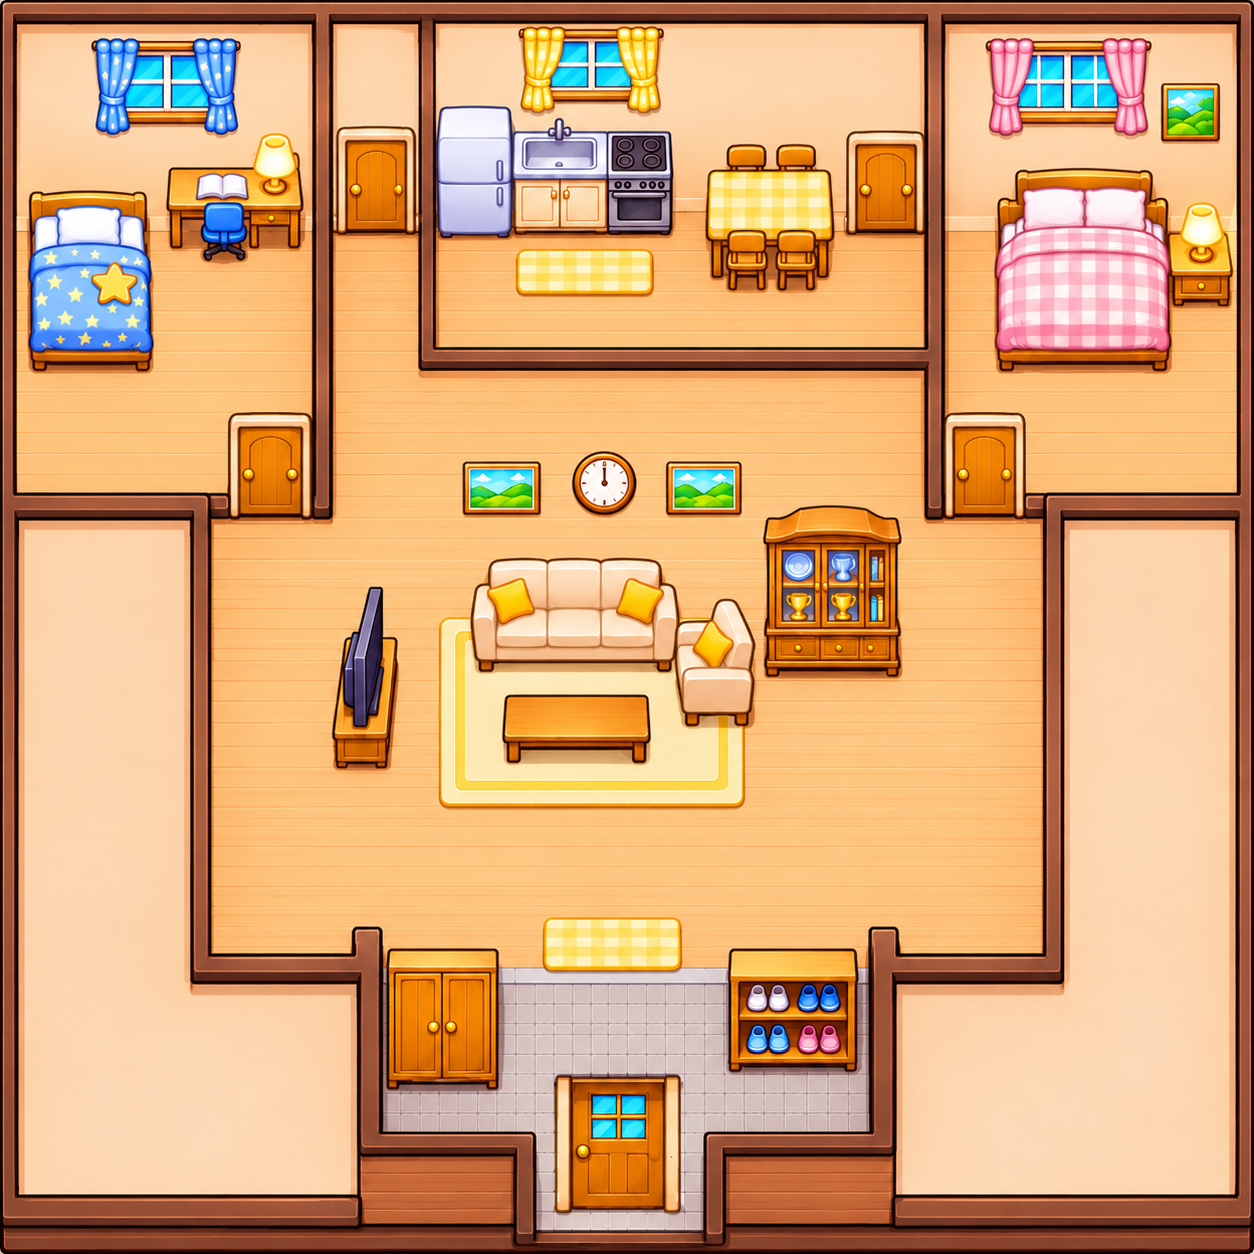
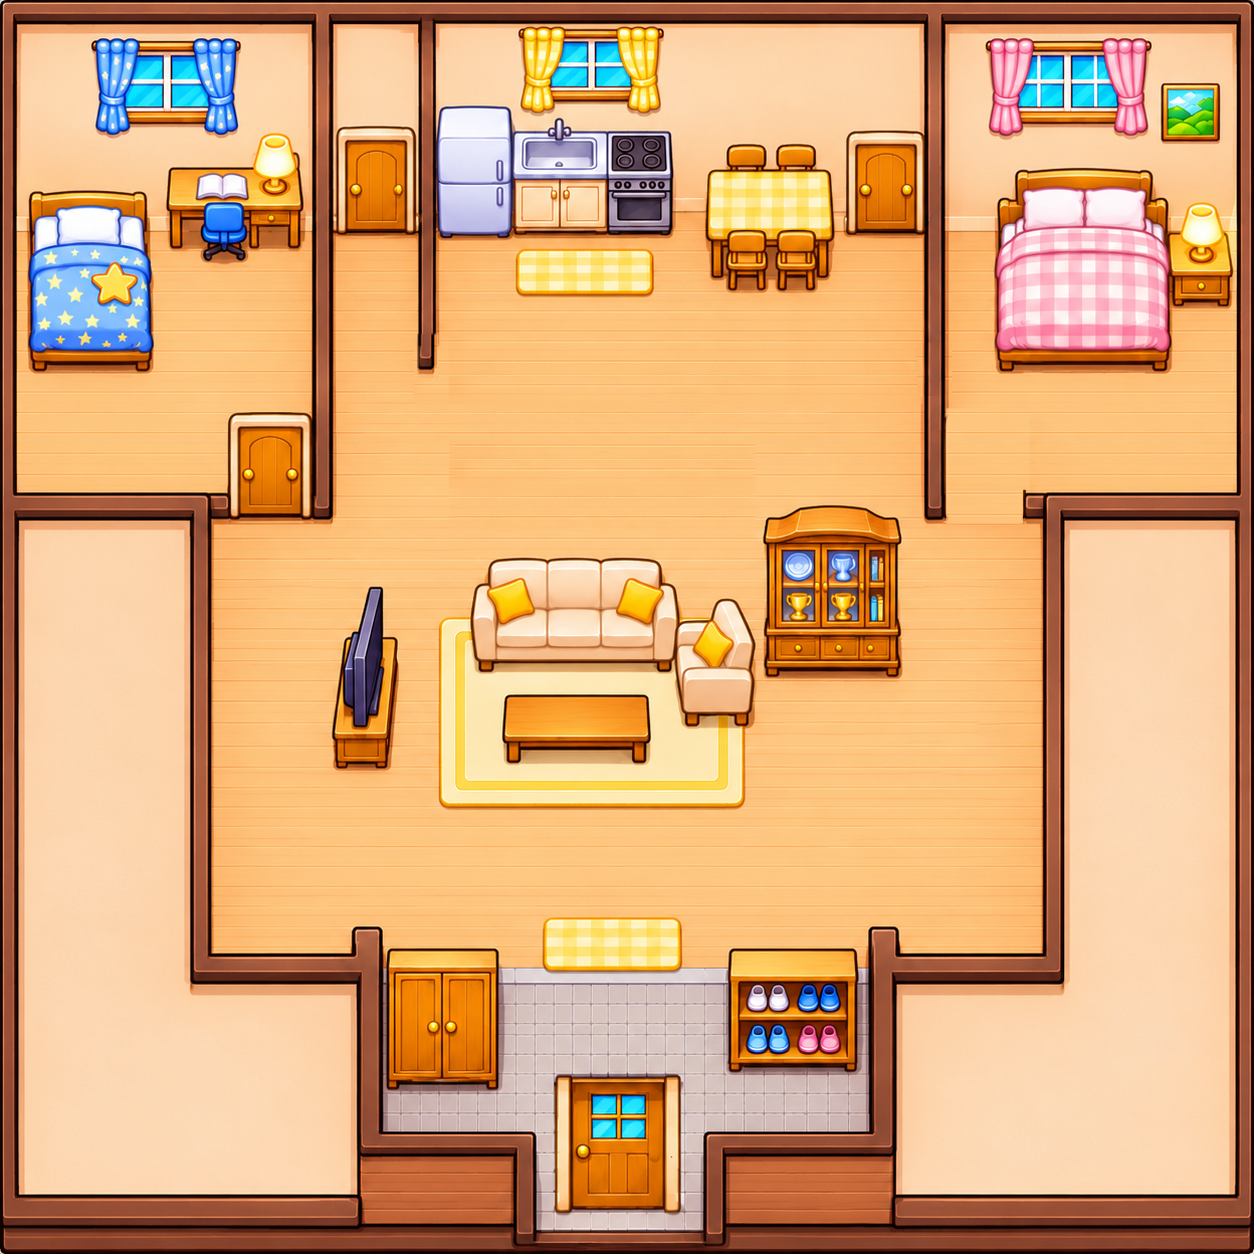
집 구조 다듬기

Changed region(s): [[0.311, 0.2488, 0.7464, 0.311], [0.3421, 0.3421, 0.5909, 0.4354], [0.7464, 0.311, 0.8397, 0.4354]]

diff --git a/house.js b/house.js
@@ -5,16 +5,67 @@ function houseDoor(room) {
   return room.door;
 }
 
+// 안방 문의 열림 상태. 집을 나가거나 새 게임을 시작하면 닫는다. 저장하지 않는다.
+const houseDoorUi = { bedroomOpen: false };
+
+function houseBedroomDoor() {
+  return HOUSE_DATA.rooms.find(room=>room.id==="bedroom").door;
+}
+
 // 벽과 가구는 집 그림 데이터(city-data.js)에서 막고, 여기서는 게임 상태에 따라 달라지는 것만 돌려준다.
 function houseObstacles() {
   const child=HOUSE_DATA.rooms.find(room=>room.id==="child");
-  return [HOUSE_DATA.cabinet,DIARY_DATA.bed,...HOUSE_DATA.dolls.filter(doll=>!gameState.acquiredItems[doll.itemId]),...(gameState.childRoomUnlocked?[]:[child.door])];
+  return [HOUSE_DATA.cabinet,DIARY_DATA.bed,...HOUSE_DATA.dolls.filter(doll=>!gameState.acquiredItems[doll.itemId]),...(gameState.childRoomUnlocked?[]:[child.door]),...(houseDoorUi.bedroomOpen?[]:[houseBedroomDoor()])];
+}
+
+// 플레이어 발밑에서 안방 문까지의 거리.
+function houseBedroomDoorDistance() {
+  const door=houseBedroomDoor(),footY=player.y+player.footOffset;
+  return Math.hypot(Math.max(0,Math.abs(player.x-door.x)-door.width/2),Math.max(0,Math.abs(footY-door.y)-door.height/2));
+}
+
+// 안방 문을 열거나 닫는다. 플레이어가 문 틈에 서 있으면 닫지 않는다.
+function toggleHouseBedroomDoor() {
+  if(houseDoorUi.bedroomOpen&&circleHitsRectangle(player.x,player.y+player.footOffset,player.collisionRadius,houseBedroomDoor())) {
+    showDoorMessage(HOUSE_DATA.text.doorBlocked);
+    return false;
+  }
+  houseDoorUi.bedroomOpen=!houseDoorUi.bedroomOpen;
+  return true;
+}
+
+function nearHouseBedroomDoor() {
+  return scene.interiorId===HOUSE_DATA.placeId&&houseBedroomDoorDistance()<=HOUSE_DATA.interactDistance;
+}
+
+// 상호작용 키: 가까운 안방 문을 열고 닫는다. 문이 가까우면 true를 돌려준다.
+function interactNearbyHouseDoor() {
+  if(!nearHouseBedroomDoor())return false;
+  toggleHouseBedroomDoor();
+  return true;
+}
+
+// 안방 문 안내 문구. 키가 지정되지 않았으면 클릭 안내만 보여 준다.
+function houseBedroomDoorHint() {
+  const text=HOUSE_DATA.text,key=interactKeyLabel(),open=houseDoorUi.bedroomOpen;
+  if(!key)return open?text.doorCloseClickHint:text.doorOpenClickHint;
+  return (open?text.doorCloseHint:text.doorOpenHint).replace("{key}",key);
+}
+
+// 저장에서 이어 할 때 문 틈에 서 있었다면 문을 열어 둔다.
+function openHouseDoorAtPlayer() {
+  if(circleHitsRectangle(player.x,player.y+player.footOffset,player.collisionRadius,houseBedroomDoor()))houseDoorUi.bedroomOpen=true;
 }
 
 function handleHouseClick(x,y) {
   const hit=rect=>Math.abs(x-rect.x)<=rect.width/2+8&&Math.abs(y-rect.y)<=rect.height/2+8;
   const child=HOUSE_DATA.rooms.find(room=>room.id==="child"),door=houseDoor(child);
   const book=DIARY_DATA.book;
+  if(hit(houseBedroomDoor().picture)) {
+    if(nearHouseBedroomDoor())toggleHouseBedroomDoor();
+    else showDoorMessage(HOUSE_DATA.text.doorNear);
+    return true;
+  }
   if(Math.abs(x-book.x)<=book.width/2+DIARY_DATA.clickPadding&&Math.abs(y-book.y)<=book.height/2+DIARY_DATA.clickPadding) {
     const footY=player.y+player.footOffset;
     const inside=player.x>child.x+HOUSE_DATA.wallThickness&&player.x<child.x+child.width-HOUSE_DATA.wallThickness&&footY>child.y+HOUSE_DATA.wallThickness&&footY<child.y+child.height-HOUSE_DATA.wallThickness;
@@ -70,20 +121,18 @@ function drawHouseDoll(doll) {
   ctx.restore();
 }
 
-// 문이 열려 있으면 문 그림 위에 근처 바닥 그림을 덮어 지나갈 수 있게 보여 준다.
-function drawOpenHouseDoor(image,door) {
-  const rect=door.picture;
-  ctx.drawImage(image,door.floor.x,door.floor.y,rect.width,rect.height,rect.x-rect.width/2,rect.y-rect.height/2,rect.width,rect.height);
-}
-
 function drawHouse() {
   const interior=city.interiors.find(room=>room.placeId===HOUSE_DATA.placeId);
   const image=objectSpriteImage(interior.picture.src);
-  const child=HOUSE_DATA.rooms.find(room=>room.id==="child"),bedroom=HOUSE_DATA.rooms.find(room=>room.id==="bedroom");
+  const child=HOUSE_DATA.rooms.find(room=>room.id==="child");
   ctx.save();ctx.textAlign="center";ctx.textBaseline="middle";ctx.font="18px 'Malgun Gothic', sans-serif";
   if(image) {
-    drawOpenHouseDoor(image,bedroom.door);
-    if(gameState.childRoomUnlocked)drawOpenHouseDoor(image,child.door);
+    // 안방 문이 닫혀 있으면 통로 자리에 문 그림을 덮는다.
+    const closed=HOUSE_DATA.bedroomDoorClosed,closedImage=houseDoorUi.bedroomOpen?null:objectSpriteImage(closed.src);
+    if(closedImage)ctx.drawImage(closedImage,closed.x,closed.y,closed.width,closed.height);
+    // 아이 방 문을 열었으면 문 자리에 통로 그림을 덮는다.
+    const open=HOUSE_DATA.childDoorOpen,openImage=gameState.childRoomUnlocked?objectSpriteImage(open.src):null;
+    if(openImage)ctx.drawImage(openImage,open.x,open.y,open.width,open.height);
     drawObjectSprite(HOUSE_DATA.cabinet);
   } else {
     // 그림을 불러오지 못했을 때의 임시 표시.
@@ -94,6 +143,7 @@ function drawHouse() {
     ctx.fillStyle="#a98664";ctx.fillRect(cabinet.x-cabinet.width/2,cabinet.y-cabinet.height/2,cabinet.width,cabinet.height);
     ctx.fillStyle="#5b4b3b";ctx.fillText(HOUSE_DATA.text.cabinet,cabinet.x,cabinet.y+cabinet.height/2+20);
     if(!gameState.childRoomUnlocked){const door=child.door;ctx.fillStyle="#705346";ctx.fillRect(door.x-door.width/2,door.y-door.height/2,door.width,door.height);}
+    if(!houseDoorUi.bedroomOpen){const door=houseBedroomDoor();ctx.fillStyle="#9a6a42";ctx.fillRect(door.x-door.width/2,door.y-door.height/2,door.width,door.height);}
   }
   drawChildRoomFurniture(!!image);
   for(const doll of HOUSE_DATA.dolls)if(!gameState.acquiredItems[doll.itemId]) {

diff --git a/data/house.js b/data/house.js
@@ -2,19 +2,25 @@
 
 const HOUSE_DATA = {
   placeId: "C05", keyId: "ITM-09", wallThickness: 0, interactDistance: 120,
-  // 집 그림(픽셀 = 게임 좌표) 기준 위치다. door는 걸어서 지나는 틈, picture는 문 그림(클릭 범위), floor는 문이 열렸을 때 덮을 바닥 그림의 왼쪽 위다.
-  // 부엌에는 문이 이어져 있지 않아 들어가지 못한다.
+  // 집 그림(픽셀 = 게임 좌표) 기준 위치다. door는 걸어서 지나는 틈, picture는 문 그림(클릭 범위)이다.
+  // 집 그림의 안방 문 자리는 통로로 합성되어 있고, 문이 닫혀 있으면 bedroomDoorClosed 그림을 덮는다. 잠기지 않아 언제든 여닫을 수 있다.
+  // 아이 방 문은 열쇠로 열면 childDoorOpen 그림을 덮는다.
+  // 부엌은 마루와 벽 없이 이어져 있다.
   // TODO: 방·문·인형 위치와 크기는 임시 설정이다.
   rooms: [
     { id: "bedroom", name: "안방", x: 945, y: 232, width: 293, height: 265,
-      door: { x: 985, y: 509, width: 66, height: 24, picture: { x: 985, y: 465, width: 80, height: 100 }, floor: { x: 1045, y: 380 } } },
+      door: { x: 985, y: 509, width: 76, height: 24, picture: { x: 985, y: 465, width: 80, height: 100 } } },
     { id: "kitchen", name: "부엌", x: 435, y: 225, width: 490, height: 125 },
     { id: "child", name: "아이 방", x: 18, y: 232, width: 294, height: 265,
-      door: { x: 270, y: 509, width: 64, height: 24, picture: { x: 270, y: 465, width: 80, height: 100 }, floor: { x: 120, y: 380 } } },
+      door: { x: 271.5, y: 509, width: 81, height: 24, picture: { x: 270, y: 465, width: 80, height: 100 } } },
   ],
   // 집 그림의 진열장 자리에 닫힌 진열장 그림을 덮어 그린다. 위쪽은 부딪히는 범위보다 조금 튀어나온다.
+  bedroomDoorClosed: { src: "assets/house-bedroom-door.png", x: 940, y: 402, width: 96, height: 128 },
+  childDoorOpen: { src: "assets/house-child-door-open.png", x: 216, y: 402, width: 102, height: 128 },
   cabinet: { x: 832, y: 590, width: 135, height: 170, sprite: { src: "assets/cabinet-closed.png", width: 142, height: 190 } },
-  text: { hall: "마루", cabinet: "장식장", locked: "아이 방 문이 잠겨 있습니다.", unlocked: "열쇠로 아이 방 문을 열었습니다.", near: "가까이에서 클릭해 주세요.", acquired: "획득했습니다.", already: "이미 가져간 인형입니다." },
+  text: { doorOpenHint: "{key} 키를 누르거나 문을 클릭해 열기", doorCloseHint: "{key} 키를 누르거나 문을 클릭해 닫기",
+    doorOpenClickHint: "문을 클릭해 열기", doorCloseClickHint: "문을 클릭해 닫기", doorNear: "문 가까이에서 클릭해 주세요.", doorBlocked: "문 앞에서 비켜 주세요.",
+    hall: "마루", cabinet: "장식장", locked: "아이 방 문이 잠겨 있습니다.", unlocked: "열쇠로 아이 방 문을 열었습니다.", near: "가까이에서 클릭해 주세요.", acquired: "획득했습니다.", already: "이미 가져간 인형입니다." },
   // 인형은 안방 침대 위에 놓는다. 사용자 결정(2026-11-08): 고양이 인형 그림이 없어 돼지 인형으로 바꿨다(기획서와 다름).
   dolls: [
     { id: "DOLL-01", itemId: "ITM-08", kind: "bear", name: "곰 인형", x: 1030, y: 270, width: 46, height: 46, sprite: { src: "assets/item-bear.png" } },

diff --git a/city-data.js b/city-data.js
@@ -129,17 +129,18 @@ const CITY_DATA = {
       floorColor: "#e6dfc6", wallColor: "#a59c7d", tileSize: 64,
       exit: { x: 800, y: 984, width: 96, height: 32, side: "south" },
       spawn: { x: 800, footY: 888, facing: "up" } },
-    // 집은 그림(1254×1254) 픽셀이 곧 게임 좌표다. 사용자 결정(2026-11-08): 부엌은 그림에서 벽으로 막혀 있어 들어가지 못한다.
+    // 집은 그림(1254×1254) 픽셀이 곧 게임 좌표다. 그림은 원본에서 안방 문을 열린 통로로 합성한 사본이다. 사용자 결정(2026-11-08): 부엌과 마루 사이 벽, 마루의 시계·액자를 그림에서 지웠다. 부엌은 마루에서 걸어 들어간다.
     // TODO: 걷는 범위는 임시 값이다. 플레이 테스트에서 조정한다.
     { placeId: "C05", name: "집", wall: 0, floorColor: "#d7c5ac", wallColor: "#998674", tileSize: 64,
       picture: { src: "assets/house-interior.png", imageWidth: 1254, imageHeight: 1254, scale: 1,
         walkable: [
           { left: 18, top: 232, right: 312, bottom: 497 }, // 아이 방
-          { left: 238, top: 497, right: 302, bottom: 521 }, // 아이 방 문 틈
+          { left: 231, top: 497, right: 312, bottom: 521 }, // 아이 방 문 틈
           { left: 945, top: 232, right: 1238, bottom: 497 }, // 안방
-          { left: 952, top: 497, right: 1018, bottom: 521 }, // 안방 문 틈
+          { left: 947, top: 497, right: 1023, bottom: 521 }, // 안방 문 틈
           { left: 332, top: 232, right: 418, bottom: 372 }, // 부엌 왼쪽 복도
           { left: 332, top: 372, right: 925, bottom: 521 }, // 마루 위쪽
+          { left: 437, top: 238, right: 925, bottom: 372 }, // 부엌(마루와 벽 없이 이어진다)
           { left: 212, top: 520, right: 1042, bottom: 932 }, // 마루
           { left: 212, top: 930, right: 353, bottom: 952 }, // 마루 왼쪽 아래
           { left: 897, top: 930, right: 1042, bottom: 952 }, // 마루 오른쪽 아래
@@ -150,7 +151,7 @@ const CITY_DATA = {
           { left: 168, top: 165, right: 302, bottom: 262 }, // 아이 방 책상과 의자
           { left: 995, top: 170, right: 1172, bottom: 372 }, // 안방 침대(인형이 놓여 있다)
           { left: 1170, top: 205, right: 1232, bottom: 305 }, // 안방 협탁
-          { left: 463, top: 455, right: 742, bottom: 521 }, // 벽 그림과 시계
+          { left: 705, top: 165, right: 838, bottom: 292 }, // 부엌 식탁과 의자
           { left: 333, top: 585, right: 398, bottom: 768 }, // TV
           { left: 472, top: 558, right: 678, bottom: 672 }, // 소파
           { left: 675, top: 600, right: 755, bottom: 725 }, // 1인 소파
@@ -158,8 +159,9 @@ const CITY_DATA = {
           { left: 387, top: 950, right: 498, bottom: 1088 }, // 옷장
           { left: 730, top: 950, right: 858, bottom: 1070 }, // 신발장
         ] },
-      exit: { x: 620, y: 1180, width: 96, height: 32, side: "south" },
-      spawn: { x: 620, footY: 1110, facing: "up" } },
+      // 사용자 결정: 쪽문으로 들어오면 아이 방과 부엌 사이 복도 끝 문 앞에 서고, 나갈 때도 이 문으로 나간다. 아래쪽 현관문은 잠긴 정문이다.
+      exit: { x: 376, y: 180, width: 80, height: 105, side: "north" },
+      spawn: { x: 376, footY: 262, facing: "down" } },
   ],
 };
 

diff --git a/hints.js b/hints.js
@@ -80,8 +80,14 @@ function hintCandidates() {
   if (!gameState.endingReached && homeNeeded) {
     if (scene.interiorId !== HOUSE_DATA.placeId) {
       add("HNT-07");
+      // 사용자 결정: 집 힌트(HNT-07) 다음에 침대 위 인형을 찾는 힌트(HNT-19)를 준다.
+      if (!has("bear")) add("HNT-19", HOUSE_DATA.dolls.find(doll => doll.itemId === HINT_DATA.items.bear));
       add("HNT-13");
-    } else if (!has("bear")) add("HNT-15", HOUSE_DATA.dolls.find(doll => doll.itemId === HINT_DATA.items.bear));
+    } else if (!has("bear")) {
+      const bear = HOUSE_DATA.dolls.find(doll => doll.itemId === HINT_DATA.items.bear);
+      add("HNT-19", bear);
+      add("HNT-15", bear);
+    }
     else if (!gameState.cabinetSolved && CABINET_DATA.answer.every(id => gameState.acquiredItems[id])) add("HNT-08", HOUSE_DATA.cabinet);
     else if (gameState.cabinetSolved && !gameState.childRoomUnlocked) add("HNT-16", houseDoor(HOUSE_DATA.rooms.find(room => room.id === "child")));
     else if (gameState.childRoomUnlocked) add("HNT-17", DIARY_DATA.book);

diff --git a/save.js b/save.js
@@ -133,6 +133,7 @@ function resetSession() {
   Object.assign(playgroundAnimation, { swingUntil: 0, seesawUntil: 0, slideUntil: 0 });
   resetRegistryProgress();
   schoolDoorUi.open.clear();
+  houseDoorUi.bedroomOpen = false;
   clearBubbleEffects();
   pressedKeys.clear();
   previousTime = null;
@@ -151,6 +152,7 @@ function restoreProgress() {
       Object.assign(player, { x: position.x, y: position.y, facing: position.facing });
       // 학교 문은 저장하지 않는다. 문 틈에 서 있던 저장이면 그 문만 열어 둔 채로 이어 한다.
       if (scene.interiorId === SCHOOL_DATA.placeId) openSchoolDoorsAtPlayer();
+      if (scene.interiorId === HOUSE_DATA.placeId) openHouseDoorAtPlayer();
       if (!canStand(player.x, player.y) || (scene.returnPoint && !canStandCity(scene.returnPoint.x, scene.returnPoint.y))) throw new Error("Invalid position");
       initializeHintSession();
       updateAchievementConditions();

diff --git a/game.js b/game.js
@@ -166,6 +166,8 @@ function finishMapTransition() {
   else restoreUnsolvedCabinet();
   // 학교를 나가면 열어 둔 문을 모두 닫는다(층 이동은 유지).
   if (scene.interiorId !== SCHOOL_DATA.placeId) schoolDoorUi.open.clear();
+  // 집을 나가면 안방 문을 닫는다.
+  if (scene.interiorId !== HOUSE_DATA.placeId) houseDoorUi.bedroomOpen = false;
   clearBubbleEffects();
   // 누르고 있던 방향키와 이전 화면의 시간 차가 새 맵에 남지 않게 한다.
   pressedKeys.clear();
@@ -812,6 +814,10 @@ function currentKeyHint() {
   if (target) {
     const rect = target.pictureRect;
     return { text: schoolDoorHint(), x: rect.x, y: rect.y, center: true };
+  }
+  if (nearHouseBedroomDoor()) {
+    const rect = houseBedroomDoor().picture;
+    return { text: houseBedroomDoorHint(), x: rect.x, y: rect.y, center: true };
   }
   const object = nearbyKeyObject();
   if (object) {

diff --git a/input.js b/input.js
@@ -38,7 +38,7 @@ window.addEventListener("keydown", event => {
     if (event.repeat) return;
     // 상호작용 키로 연 창(대화·게시판·명부)이 열려 있으면 닫고, 아니면 가까운 대상과 상호작용한다.
     if (inspectionUiState.object?.messages?.keyHint) closeInspection();
-    else if (!isGameInputBlocked()) interactNearbySchool() || interactNearbyObject() || interactNearbyEntrance();
+    else if (!isGameInputBlocked()) interactNearbySchool() || interactNearbyHouseDoor() || interactNearbyObject() || interactNearbyEntrance();
     return;
   }
   const actions = { inventory: toggleInventory, achievements: toggleAchievements, map: toggleMap };

diff --git a/data/hints.js b/data/hints.js
@@ -31,6 +31,8 @@ const HINT_DATA = {
     { id: "HNT-17", placeId: "C05", text: "아이 방 침대 위에 남겨진 일기를 끝까지 읽어 보세요." },
     // 알림장·크레파스를 아직 못 얻었을 때, 게시판(HNT-02) 또는 자리 배치도(HNT-03) 힌트 다음에 준다.
     { id: "HNT-18", placeId: "C02", text: "크레파스는 학생의 자리에 있겠죠? 돌잔치 사진과 연결해보세요." },
+    // 곰 인형을 아직 얻지 못했을 때, 집 힌트(HNT-07) 다음에 준다.
+    { id: "HNT-19", placeId: "C05", text: "집 안을 잘 살펴보세요. 침대 위에 놓인 것이 있을지도 몰라요." },
   ],
 };
 

diff --git a/README.md b/README.md
@@ -76,7 +76,7 @@
 
 별도의 힌트 기록 버튼은 없습니다. 힌트를 한 번이라도 받으면 🎁는 계속 남아 있습니다. 누르면 새 힌트가 있을 때는 위에 새 힌트를, 아래에 **이전에 본 힌트**를 모두 보여주고, 새 힌트가 없을 때는 이전에 본 힌트만 보여줍니다. 같은 힌트는 기록에 중복 추가하지 않습니다. 패널이 열려 있는 동안 이동과 배경 클릭은 차단하며 닫기 버튼으로 닫습니다. 다른 조사·인벤토리·업적 창을 닫은 뒤 사용할 수 있습니다.
 
-집에 들어가기 전에는 집 힌트를 HNT-07 → HNT-13(집 외곽) 순서로 주고, 그다음 미끄럼틀 힌트(HNT-14)를 줍니다. HNT-14는 놀이터 힌트지만 이 경우만 장소 순서의 예외입니다.
+집에 들어가기 전에는 집 힌트를 HNT-07 → HNT-19(침대 위 인형, 곰 인형이 없을 때만) → HNT-13(집 외곽) 순서로 주고, 그다음 미끄럼틀 힌트(HNT-14)를 줍니다. HNT-14는 놀이터 힌트지만 이 경우만 장소 순서의 예외입니다.
 
 - `data/hints.js`: 사용자가 제공한 표의 확정 문장 8개, 추가 임시 문장(TODO), 진전·단서 목록, 시간 설정.
 - `hints.js`: 상황별 후보 선택, 실제 표시 시간 누적, 최초 진전 감지, 힌트 패널·기록.
@@ -205,7 +205,7 @@
 
 ## 집 실내와 인형
 
-집은 오른쪽 담장의 나무 쪽문을 클릭해 들어갑니다. 아이템이나 단서 확인은 필요하지 않고, 남쪽 정문은 계속 잠겨 있습니다. 실내는 `assets/house-interior.png` 그림(그림 1픽셀 = 게임 1픽셀)을 그대로 씁니다. 아래쪽 현관에서 들어와 마루로 이어지고, 마루 위쪽 왼쪽 문이 **아이 방**(별 이불 침대), 오른쪽 문이 **안방**(분홍 침대)입니다. 사용자 결정으로 **부엌은 벽으로 막혀 들어갈 수 없습니다**(기획서와 다름). 안방 문은 항상 열려 있어 문 그림 대신 바닥 그림으로 덮어 그립니다.
+집은 오른쪽 담장의 나무 쪽문을 클릭해 들어갑니다. 아이템이나 단서 확인은 필요하지 않고, 남쪽 정문은 계속 잠겨 있습니다. 실내는 `assets/house-interior.png` 그림(그림 1픽셀 = 게임 1픽셀)을 그대로 씁니다. 쪽문으로 들어오면 아이 방과 부엌 사이 복도 끝 문 앞에 서고, 나갈 때도 이 문으로 나갑니다. 아래쪽 현관문은 잠긴 정문입니다. 복도는 마루로 이어지고, 마루 위쪽 왼쪽 문이 **아이 방**(별 이불 침대), 오른쪽 문이 **안방**(분홍 침대)입니다. 사용자 결정으로 부엌과 마루 사이 벽과 마루의 시계·액자를 그림에서 지워, 부엌은 마루에서 걸어 들어갑니다. 안방 문은 잠기지 않았고 E 키나 클릭으로 여닫습니다. 처음에는 닫혀 있고, 집을 나가면 다시 닫힙니다(저장하지 않음). `assets/house-interior.png`는 원본에서 안방 문 자리를 통로로 합성한 사본이고, 닫혀 있을 때 `assets/house-bedroom-door.png`를 덮습니다. 아이 방 문은 열쇠로 열면 `assets/house-child-door-open.png`를 덮습니다.
 
 인형은 안방 침대 위에 있고, 침대 옆 바닥에서 클릭하면 각각 한 번만 획득합니다. 곰 인형은 `ITM-08`입니다. 사용자 결정으로 고양이 인형 대신 돼지 인형을 씁니다(그림이 돼지뿐이라 기획서와 다름). 곰 인형 그림의 리본은 빨강이고, 기획서의 파란 리본과 다릅니다. 다른 인형도 인벤토리에 남지만 `cabinetUsable: false`로 장식장 사용 불가를 명시했습니다.
 
